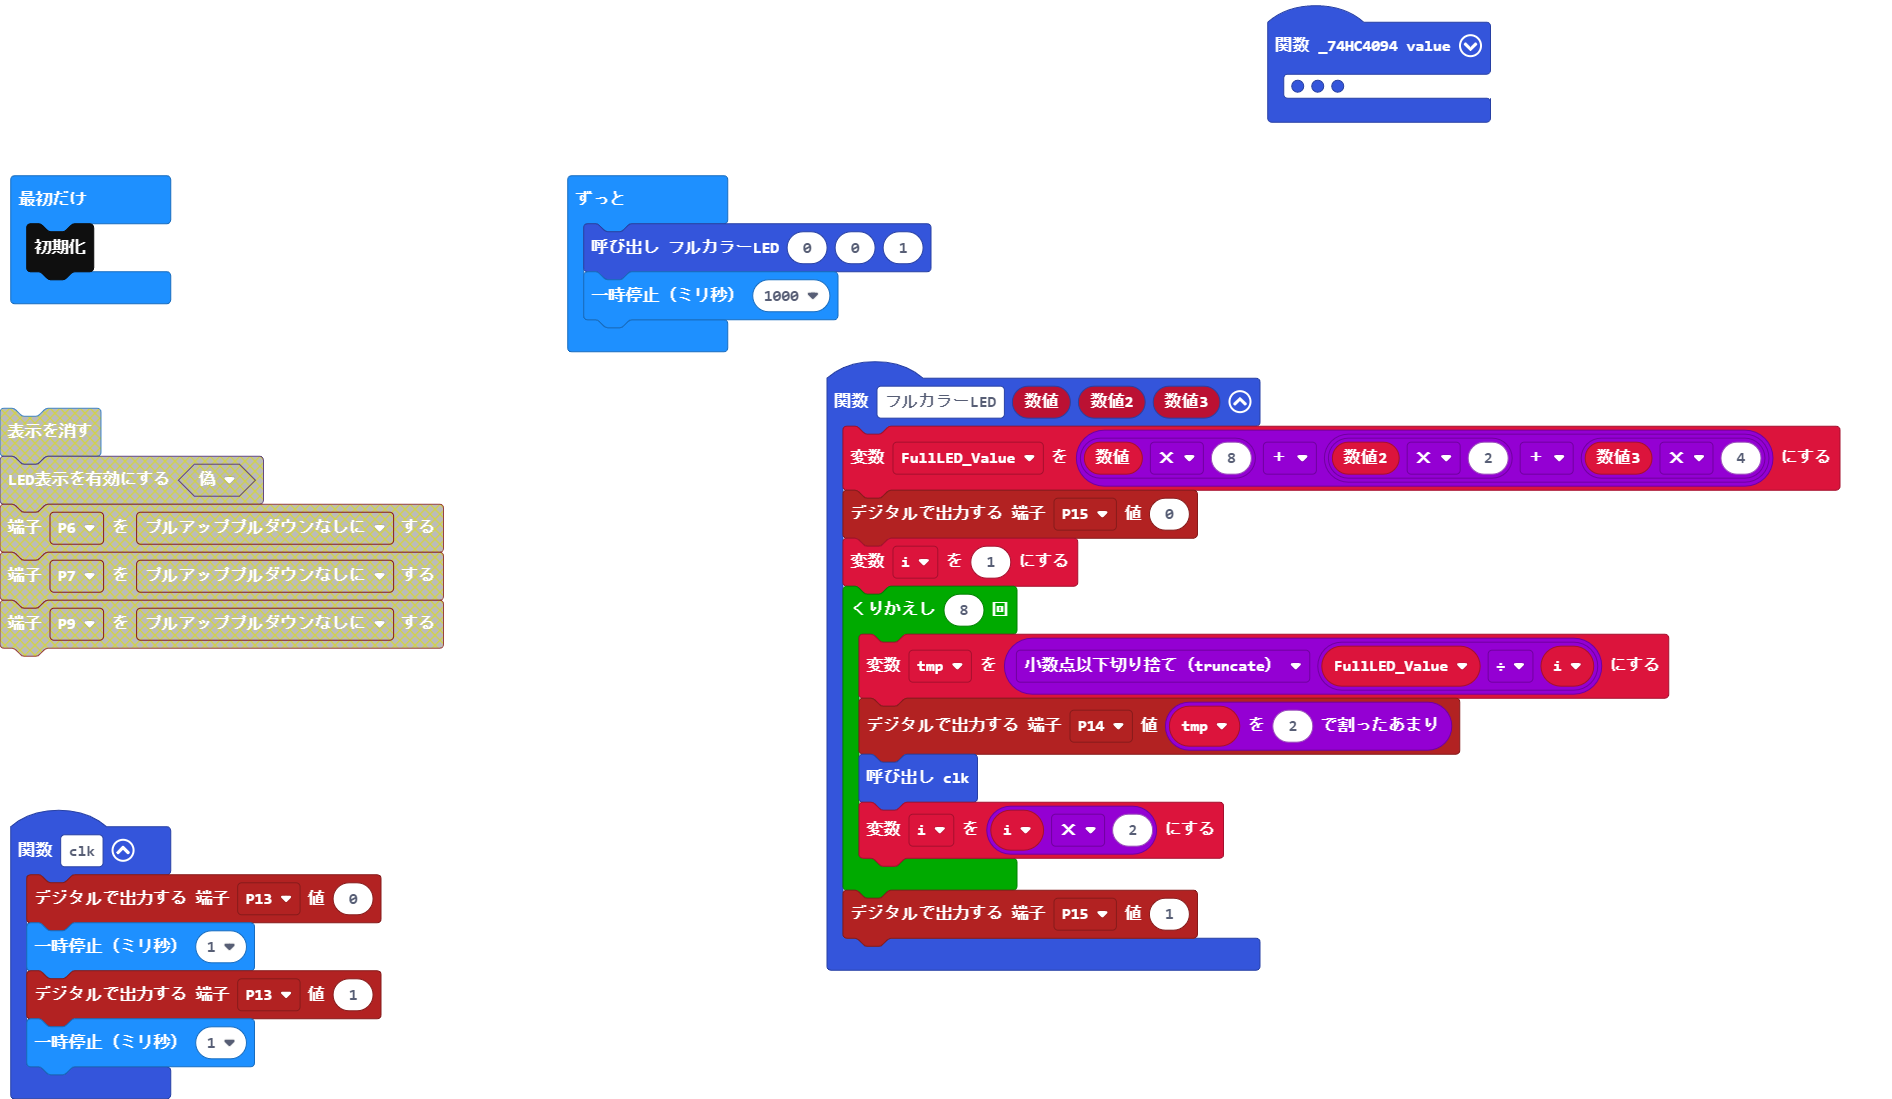
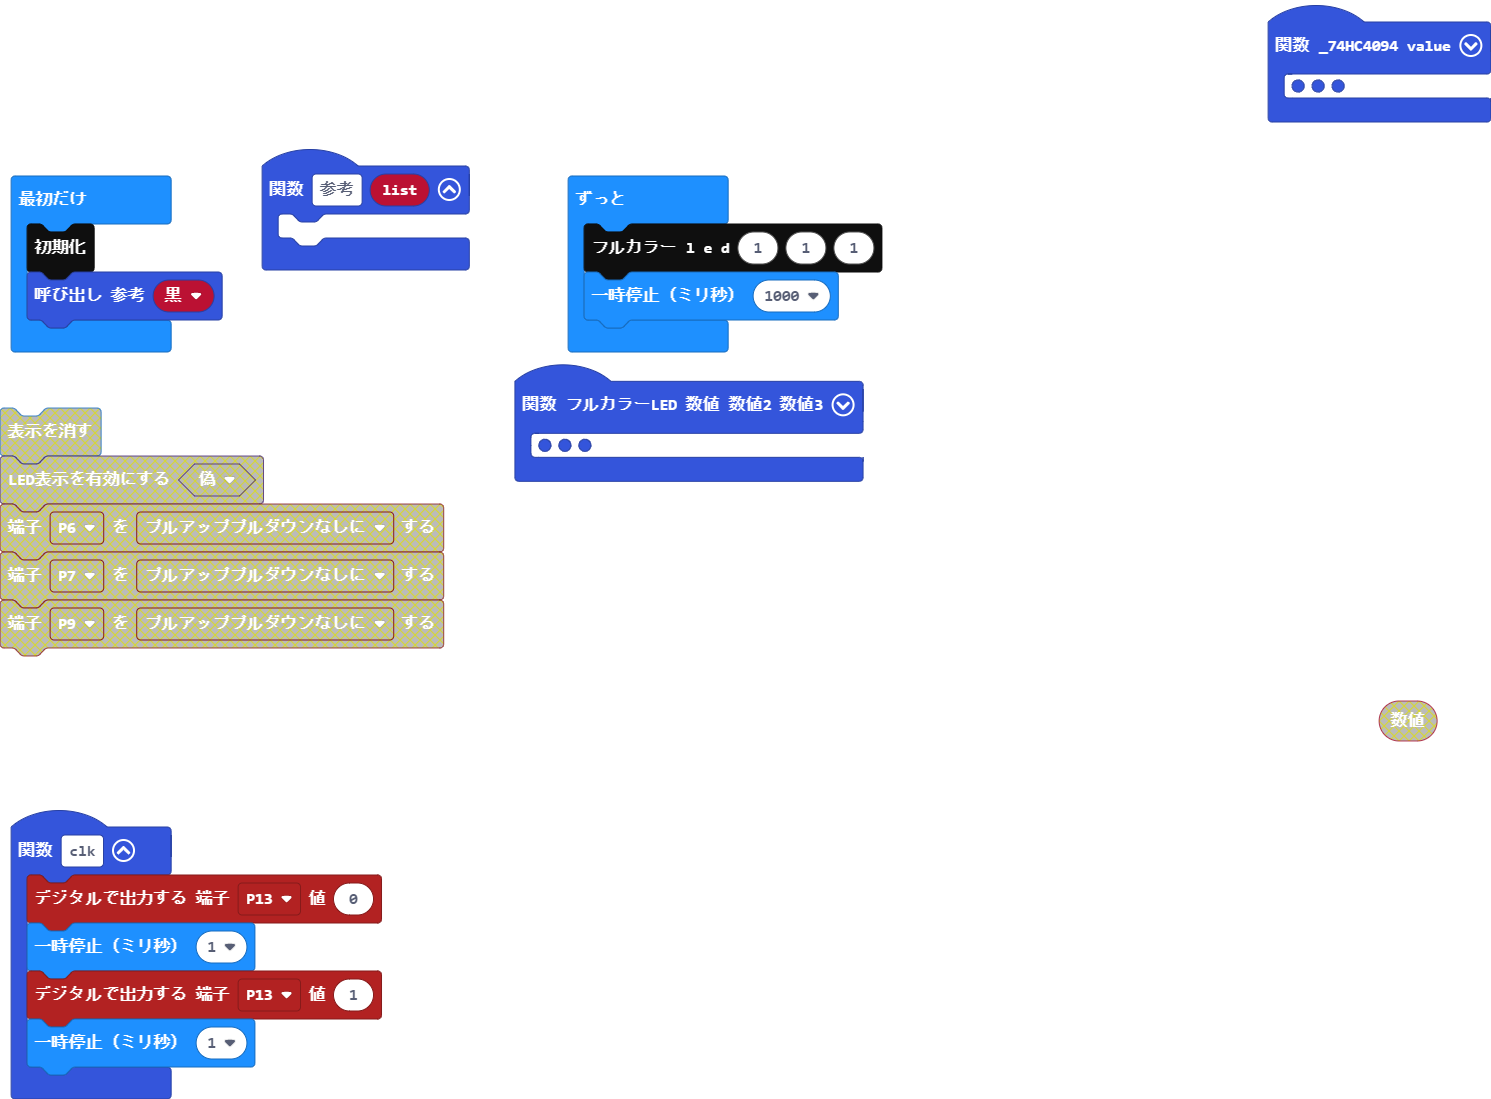
フルカラーＬＥＤブロックの作成

diff --git a/custom.ts b/custom.ts
@@ -26,6 +26,21 @@ namespace custom {
         pins.setPull(DigitalPin.P9, PinPullMode.PullNone)
     }
 
+    //% block
+    export function フルカラーLED(R: number, G: number, B: number): void {
+        FullLED_Value = R * 8 + (G * 2 + B * 4)
+        pins.digitalWritePin(DigitalPin.P15, 0)
+        i = 1
+        for (let index = 0; index < 8; index++) {
+            tmp = Math.trunc(FullLED_Value / i)
+            pins.digitalWritePin(DigitalPin.P14, tmp % 2)
+            clk()
+            i = i * 2
+        }
+        pins.digitalWritePin(DigitalPin.P15, 1)
+
+    }
+
     /**
      * TODO: describe your function here
      * @param value describe value here, eg: 5

diff --git a/main.ts b/main.ts
@@ -1,3 +1,6 @@
+function 参考 (list: any[]) {
+	
+}
 function _74HC4094 (value: number) {
     pins.digitalWritePin(DigitalPin.P16, 0)
     i = 1
@@ -30,8 +33,10 @@ function フルカラーLED (数値: number, 数値2: number, 数値3: number) {
 let FullLED_Value = 0
 let tmp = 0
 let i = 0
+let 黒: number[] = []
 custom.initialize()
+参考(黒)
 basic.forever(function () {
-    フルカラーLED(0, 0, 1)
+    custom.フルカラーLED(1, 1, 1)
     basic.pause(1000)
 })
